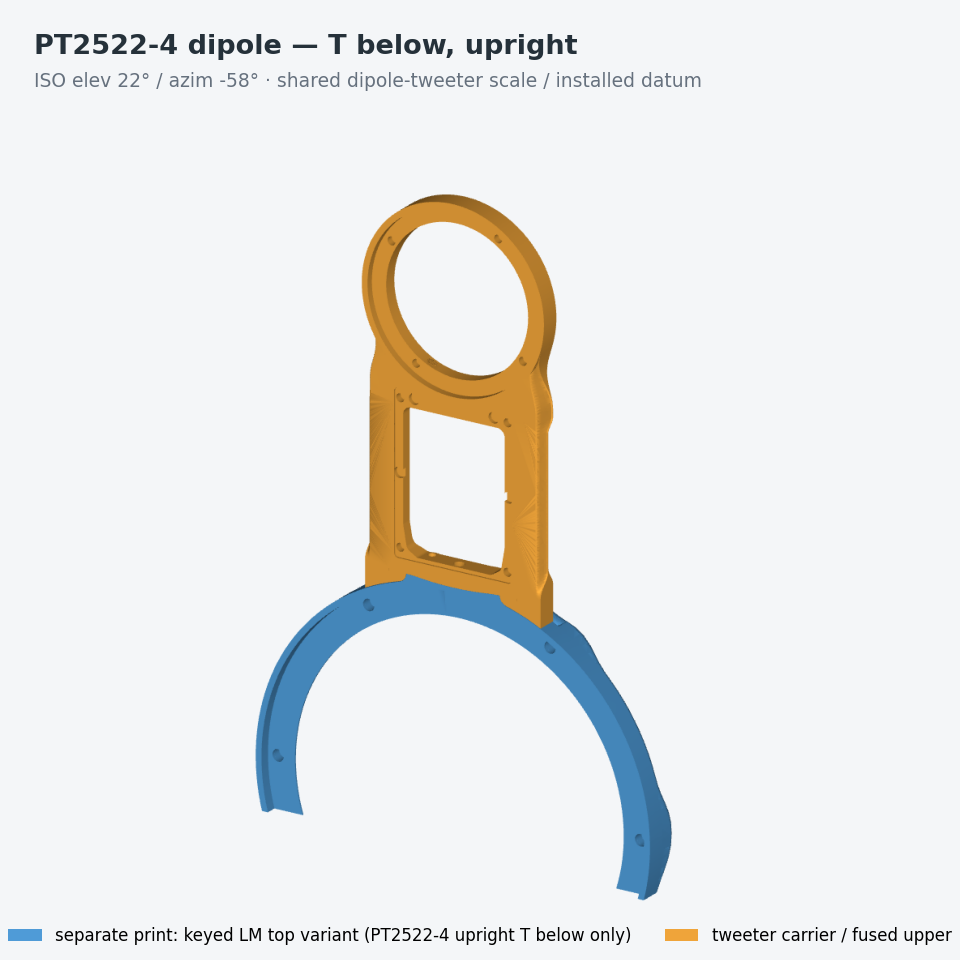
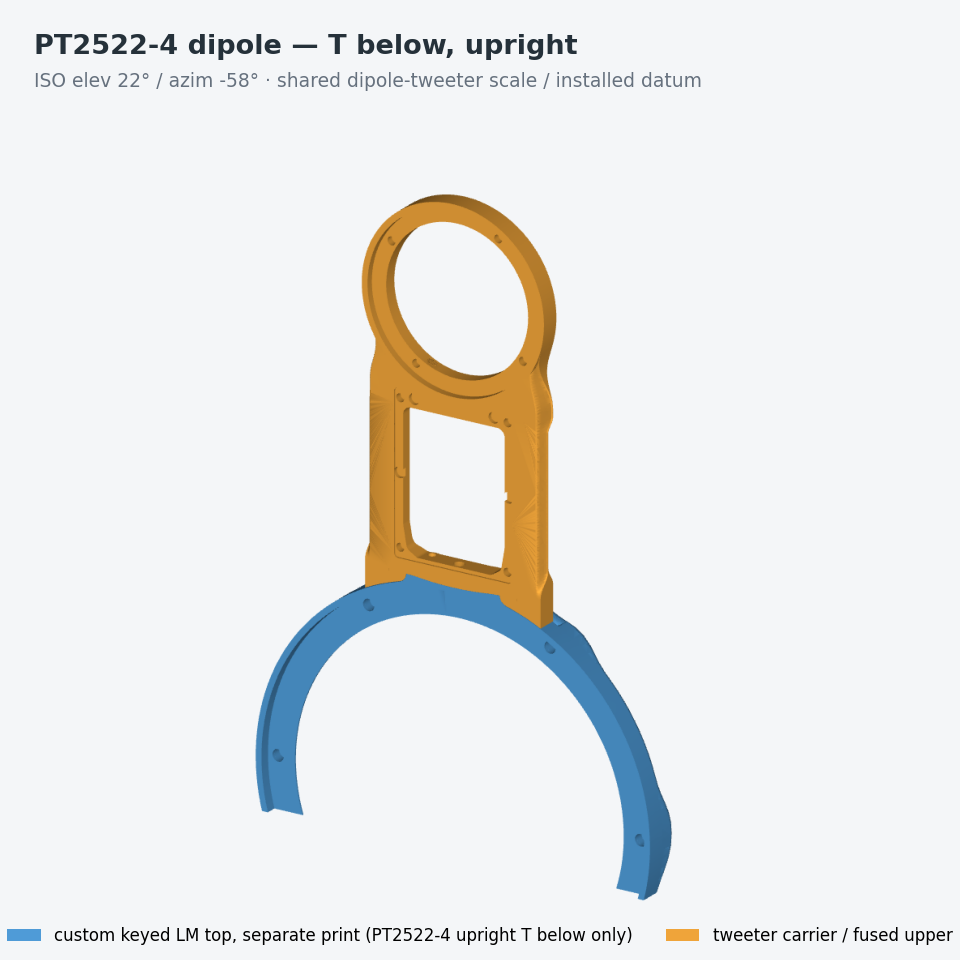
Explain what the dipole row shows and name the PT2522-4 custom LM top
Only the dipole prints are drawn. T above sits on any regular Obiwan LM;
T below fuses the keyed LM top in, except on the PT2522-4 upright, which
is too long for one print and has a custom keyed LM top. That top carries
the T and UM ducts to the regular LM-UM joint and fits only its own
T + UM piece. Panel notes, the legend, the dipole guide, the package
README and the Obiwan shelf README now say so.

Changed region(s): [[0.0625, 0.9688, 0.6562, 1.0], [0.75, 0.9688, 1.0, 1.0]]

diff --git a/top_baffle_v2/scripts/gen_product_iso_matrix.py b/top_baffle_v2/scripts/gen_product_iso_matrix.py
@@ -217,9 +217,10 @@ def _dipole_cells() -> tuple[dict, ...]:
     for family, slug, label in DIPOLE_DRIVERS:
         for layout, orientation in DIPOLE_LAYOUTS:
             where = "T above" if layout == "t_above" else "T below"
-            note = ("one print: UM + tweeter frame" if layout == "t_above" else
-                    "two prints: keyed LM top variant + T + UM piece" if (family, orientation) == (PT2522, "upright") else
-                    "one print: keyed LM top + tweeter + UM")
+            # Row notes are centred and not wrapped: keep them about as long as the tweeter row's.
+            note = ("UM + frame · on any regular LM" if layout == "t_above" else
+                    "custom LM top + T/UM piece · keyed LM bottom" if (family, orientation) == (PT2522, "upright") else
+                    "LM top + T + UM · keyed LM bottom")
             cells.append(_cell(f"dipole_{slug}_{layout}_{orientation}", f"{label} dipole — {where}, {orientation}",
                                f"{label} · {where} · {orientation}", "dipole",
                                _dipole_parts(family, layout, orientation), note=note, family=family))
@@ -426,8 +427,10 @@ ROWS = (
         "title": "Dipole tweeters — PT2522-4 and AMT17D2.1, T above / T below, upright / rotated",
         "cells": tuple(f"dipole_{slug}_{layout}_{orientation}" for _, slug, _ in DIPOLE_DRIVERS
                        for layout, orientation in DIPOLE_LAYOUTS),
-        "geometry_note": ("Same installed datum and scale. T above replaces the UM; T below also replaces the keyed LM top, fused into one "
-                          "print except the PT2522-4 upright (too long for one print), which splits at the regular LM-UM joint. Drivers omitted."),
+        "geometry_note": ("Only the dipole prints are shown, at one installed datum and scale; the unchanged regular parts they mount on are not. "
+                          "T above replaces the UM and sits on any regular Obiwan LM. T below replaces the keyed LM top and UM and sits on the regular "
+                          "keyed LM bottom; its keyed LM top is fused in, except on the PT2522-4 upright (one piece would be too long to print), which "
+                          "has a custom keyed LM top (blue) joined at the LM-UM joint. Drivers omitted."),
     },
     {
         "key": "obiwan_wing_row",
@@ -442,7 +445,7 @@ ROLE_LEGEND = {
     "base": "base / carrier",
     "top": "tweeter carrier / fused upper",
     "perimeter": "optional perimeter",
-    "second_print": "separate print: keyed LM top variant (PT2522-4 upright T below only)",
+    "second_print": "custom keyed LM top, separate print (PT2522-4 upright T below only)",
 }
 
 # Rows live one level down so `images/generated/iso/*.png` stays exactly the

diff --git a/top_baffle_v2/scripts/document_h2c_release.py b/top_baffle_v2/scripts/document_h2c_release.py
@@ -100,7 +100,8 @@ PRODUCT_INTRO={
         '*T above* — any LM above + `dipole/obiwan_<pt2522|amt17d2>_t_above_<upright|rotated>` (UM + tweeter frame in one piece, '+
         'replaces the UM carrier and crescent). *T below* — the keyed bottom for your stand state + '+
         '`dipole/obiwan_<driver>_t_below_<orientation>` (keyed LM top + tweeter + UM in one piece); the PT2522 upright comes as '+
-        'two prints, `dipole/obiwan_pt2522_t_below_upright_lm_top` + `_um_t`, joined like the regular LM top and UM. '+
+        'two prints, a custom keyed LM top `dipole/obiwan_pt2522_t_below_upright_lm_top` + its T + UM piece `_um_t`, joined like the '+
+        'regular LM top and UM (they only fit each other). '+
         'Drivers fix with M3 screws into M3 heat-set inserts. No wings for the dipole parts.',
         '- **Floor stand add-on:** `addons/obiwan_nl8_service_lid` closes the underside NL8 bay.'],
 }

diff --git a/top_baffle_v2/to_print/obiwan/README.md b/top_baffle_v2/to_print/obiwan/README.md
@@ -6,7 +6,7 @@ Obiwan baffle. Choose an LM for your stand state, then one upper arrangement:
 - **LM, one of:** the one-piece `lm/obiwan_lm_carrier_{floor_stand,no_floor_stand}`, or the keyed halves `lm/obiwan_lm_keyed_bottom_{floor_stand,no_floor_stand}` + `lm/obiwan_lm_keyed_top` (the keyed top is the same part for both stand states).
 - **ND25FW-4 or BMR upper:** `upper/obiwan_um_carrier` + one crescent (`obiwan_crescent_nd25fw4`, or the BMR candidates `obiwan_crescent_bmr` / `obiwan_crescent_bmr_opposed`); optional regular wings `wings/obiwan_wing_{flat,graded}_{left,right}`. Any LM above fits.
 - **ND25FN-4 waveguide (candidate):** the keyed bottom for your stand state + `upper/obiwan_nd25fn4_tweeters_{right,left}_top` (it replaces the keyed top, the UM and the crescent) + its two caps; optional matching wings `wings/obiwan_nd25fn4_tweeters_<hand>_wing_*`. Regular wings do not fit it.
-- **Dipole tweeter (candidate; GRS PT2522-4 planar or Mundorf AMT17D2.1), one driver, upright or rotated:** *T above* — any LM above + `dipole/obiwan_<pt2522|amt17d2>_t_above_<upright|rotated>` (UM + tweeter frame in one piece, replaces the UM carrier and crescent). *T below* — the keyed bottom for your stand state + `dipole/obiwan_<driver>_t_below_<orientation>` (keyed LM top + tweeter + UM in one piece); the PT2522 upright comes as two prints, `dipole/obiwan_pt2522_t_below_upright_lm_top` + `_um_t`, joined like the regular LM top and UM. Drivers fix with M3 screws into M3 heat-set inserts. No wings for the dipole parts.
+- **Dipole tweeter (candidate; GRS PT2522-4 planar or Mundorf AMT17D2.1), one driver, upright or rotated:** *T above* — any LM above + `dipole/obiwan_<pt2522|amt17d2>_t_above_<upright|rotated>` (UM + tweeter frame in one piece, replaces the UM carrier and crescent). *T below* — the keyed bottom for your stand state + `dipole/obiwan_<driver>_t_below_<orientation>` (keyed LM top + tweeter + UM in one piece); the PT2522 upright comes as two prints, a custom keyed LM top `dipole/obiwan_pt2522_t_below_upright_lm_top` + its T + UM piece `_um_t`, joined like the regular LM top and UM (they only fit each other). Drivers fix with M3 screws into M3 heat-set inserts. No wings for the dipole parts.
 - **Floor stand add-on:** `addons/obiwan_nl8_service_lid` closes the underside NL8 bay.
 
 Each part keeps its files side by side: `<part>.stl`, `<part>.petg-gf.3mf` (editable project) and `<part>.petg-gf.gcode.3mf` (audited slice). Print from the `.3mf` or `.gcode.3mf`: an STL alone loses the supports, blockers, infill modifiers and magnet pauses.

diff --git a/top_baffle_v2/candidates/dipole_tweeter/README.md b/top_baffle_v2/candidates/dipole_tweeter/README.md
@@ -7,7 +7,7 @@ The shelf's `grs_pt2522_4` and `mundorf_amt17d2_1` families (`to_print/obiwan/di
 |---|---|---|---|
 | `<family>_obiwan_t_above_{upright,rotated}` | UM + tweeter frame, T above the MU10 | UM carrier + crescent | Obiwan LM carrier or keyed LM top (released LM–UM joint) |
 | `<family>_obiwan_t_below_{upright,rotated}` (not PT2522-4 upright) | keyed LM top + tweeter + raised MU10, one piece | keyed LM top + UM + crescent | Keyed LM bottom, either stand state (released keyed seam) |
-| `grs_pt2522_4_obiwan_t_below_upright_{lm_top,um_t}` | the same as a keyed LM top variant + a T + UM piece | keyed LM top + UM + crescent | Keyed LM bottom; the two prints meet at the released LM–UM joint |
+| `grs_pt2522_4_obiwan_t_below_upright_{lm_top,um_t}` | the same as a custom keyed LM top + its T + UM piece (they only fit each other) | keyed LM top + UM + crescent | Keyed LM bottom; the two prints meet at the released LM–UM joint |
 
 **Do not print from this folder.** These STLs are source meshes in the installed frame (front towards +z), so a
 slicer shows them front face up. The print files are in `to_print/obiwan/dipole/`: posed front face down, with the

diff --git a/top_baffle_v2/docs/DIPOLE_TWEETERS.md b/top_baffle_v2/docs/DIPOLE_TWEETERS.md
@@ -6,8 +6,10 @@ Status: candidate. Digital geometry, duct and slicer checks pass; nothing has be
 
 ![All eight dipole layouts at one scale](../images/generated/iso/rows/dipole_row.png)
 
-All eight layouts at one scale and installed datum. Gold is the dipole part. The PT2522-4 upright T below is two prints:
-the keyed LM top variant (blue) and the T + UM piece. Drivers are omitted.
+All eight layouts at one scale and installed datum. Only the dipole prints are drawn, not the unchanged regular parts
+they mount on: T above sits on any regular Obiwan LM; T below sits on the regular keyed LM bottom, with the keyed LM top
+fused in. The exception is the PT2522-4 upright T below: one piece would be too long to print, so it has a custom keyed
+LM top (blue) as a separate print. It works only with its own T + UM piece. Drivers are omitted.
 
 ## What to print (per speaker)
 
